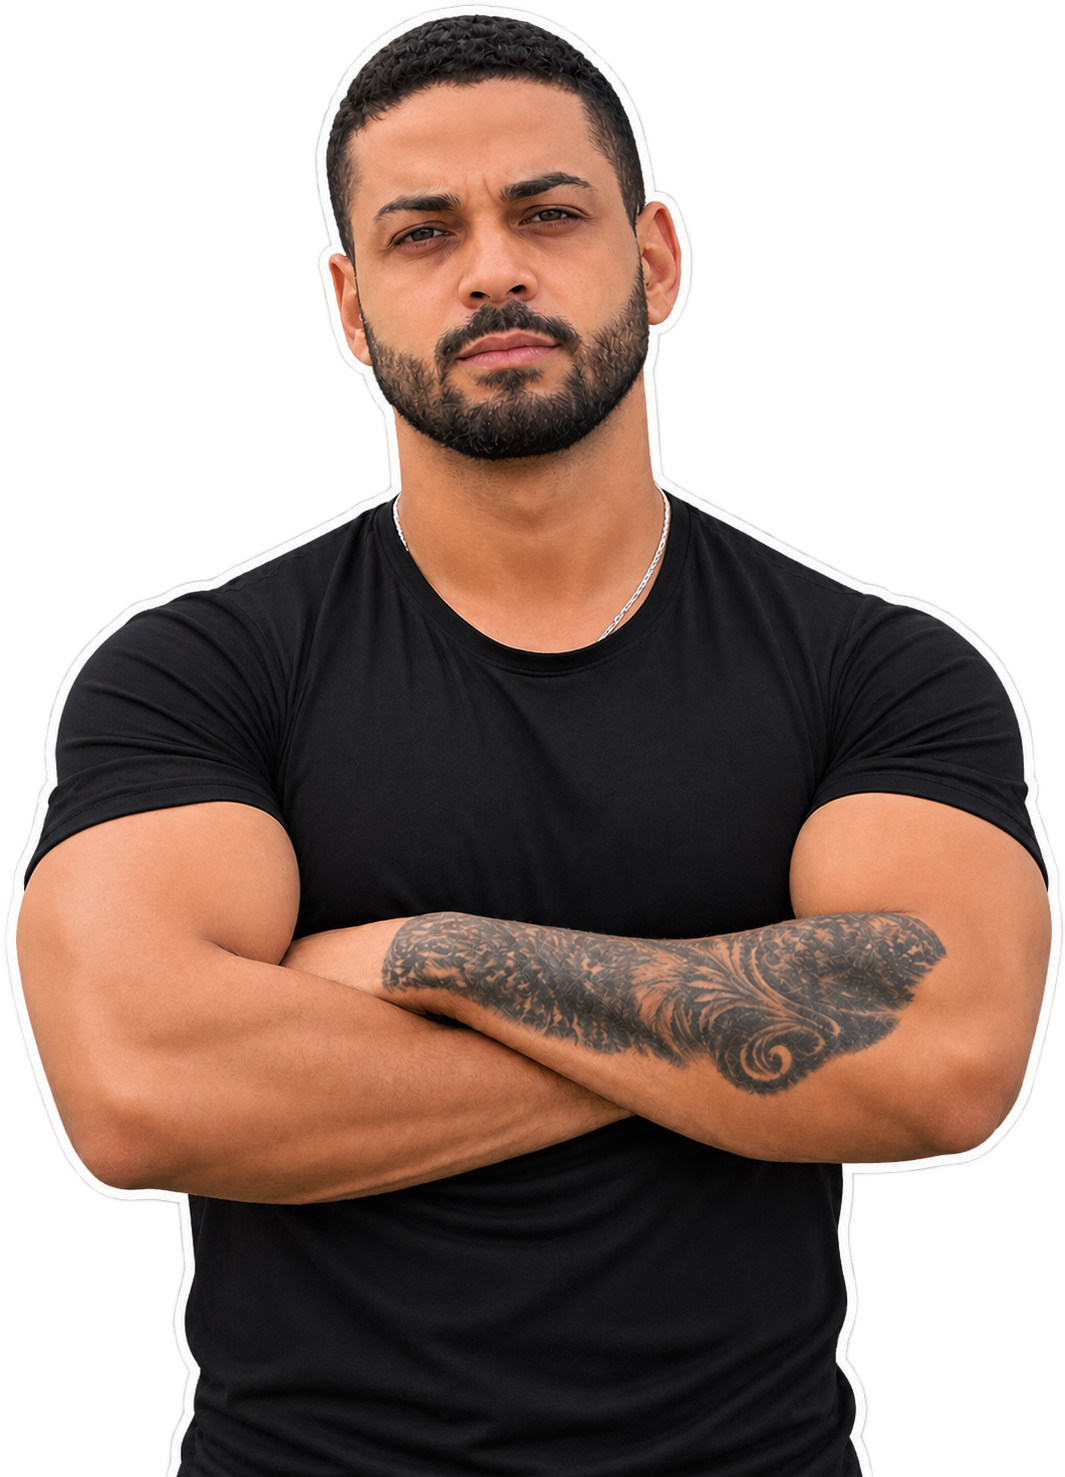
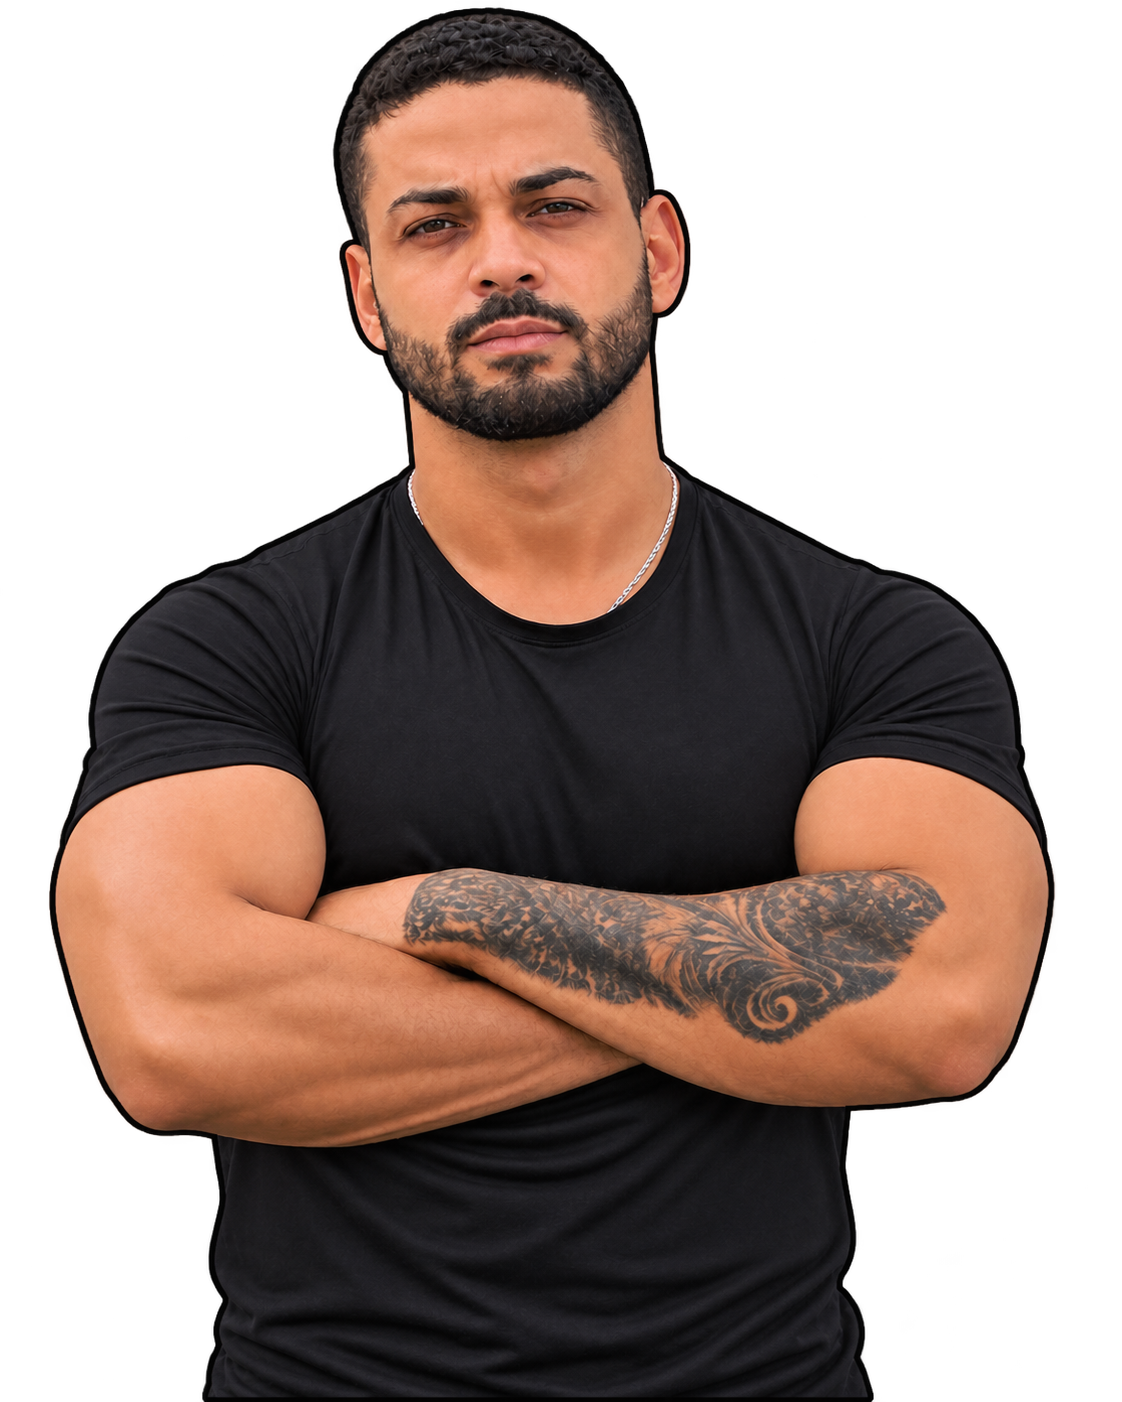
Atualiza fotos dos personais e reorganiza cards da equipe

diff --git a/index.html b/index.html
@@ -263,7 +263,7 @@
       <div class="space-lightbox-stage"><button type="button" class="space-lightbox-prev" aria-label="Ver foto anterior">‹</button><img class="space-lightbox-image" alt=""><button type="button" class="space-lightbox-next" aria-label="Ver próxima foto">›</button></div>
       <p class="space-lightbox-count" aria-live="polite"></p>
     </dialog>
-    <section class="section" id="equipe"><div class="wrap"><div class="trainers-intro reveal"><div><p class="eyebrow">Quem acompanha seu treino</p><h2 class="section-title">Conheça nossos personal trainers.</h2></div><p class="trainers-note">Nossa equipe conta com profissionais formados e preparados para orientar você e acompanhar seus treinos. Conheça os personais de cada unidade.</p></div><div class="trainer-unit"><div class="trainer-unit-heading reveal"><h3>Jesuânia</h3><span>Unidade Jesuânia · 3 profissionais</span></div><div class="trainer-grid"><article class="trainer-card reveal" data-spotlight-card><img class="trainer-photo trainer-photo-cutout" src="assets/leonora.png" alt="Leonora, personal trainer da Escultural Fitness"><div class="trainer-info"><h4>Leonora</h4><div class="social-icons" aria-label="Redes sociais"><a href="https://wa.me/553599144390" target="_blank" rel="noopener" aria-label="WhatsApp de Leonora"><svg viewBox="0 0 24 24" aria-hidden="true"><path d="M20.52 3.48A11.86 11.86 0 0 0 12.06 0C5.48 0 .13 5.35.13 11.93c0 2.1.55 4.15 1.6 5.96L0 24l6.27-1.65a11.9 11.9 0 0 0 5.78 1.47h.01C18.64 23.82 24 18.47 24 11.89c0-3.18-1.24-6.17-3.48-8.41ZM12.06 21.8h-.01a9.9 9.9 0 0 1-5.04-1.38l-.36-.21-3.72.98.99-3.63-.24-.37a9.85 9.85 0 0 1-1.52-5.26c0-5.48 4.46-9.93 9.94-9.93 2.65 0 5.14 1.03 7.01 2.91a9.86 9.86 0 0 1 2.9 7.02c0 5.48-4.46 9.93-9.95 9.93Z"/><path d="M17.5 14.36c-.3-.15-1.75-.86-2.02-.96-.27-.1-.47-.15-.67.15-.2.3-.76.96-.93 1.16-.17.2-.35.22-.65.07-.3-.15-1.27-.47-2.42-1.5-.89-.79-1.5-1.76-1.67-2.06-.17-.3-.02-.46.13-.61.14-.14.3-.35.45-.52.15-.17.2-.3.3-.5.1-.2.05-.38-.02-.53-.08-.15-.67-1.62-.92-2.22-.24-.58-.49-.5-.67-.51h-.57c-.2 0-.52.07-.79.37-.27.3-1.04 1.02-1.04 2.49s1.07 2.89 1.22 3.09c.15.2 2.1 3.2 5.08 4.48.71.31 1.26.5 1.69.64.71.23 1.36.2 1.87.12.57-.09 1.75-.72 2-1.42.25-.7.25-1.3.17-1.42Z"/></svg></a><a href="https://www.instagram.com/leonoraolirib/" target="_blank" rel="noopener" aria-label="Instagram de Leonora"><svg viewBox="0 0 24 24" aria-hidden="true"><path d="M7 2h10a5 5 0 0 1 5 5v10a5 5 0 0 1-5 5H7a5 5 0 0 1-5-5V7a5 5 0 0 1 5-5Zm5 5a5 5 0 1 0 0 10 5 5 0 0 0 0-10Zm6.5-1.5a1.5 1.5 0 1 0 0 3 1.5 1.5 0 0 0 0-3Z"/></svg></a></div><span class="trainer-role">Personal trainer · Jesuânia</span><p>Conheça em breve a trajetória e a especialidade deste profissional.</p></div></article><article class="trainer-card reveal" data-spotlight-card><img class="trainer-photo trainer-photo-cutout" src="assets/alex-junior.png" alt="Alex Junior, personal trainer da Escultural Fitness"><div class="trainer-info"><h4>Alex Junior</h4><div class="social-icons" aria-label="Redes sociais"><a class="social-whatsapp" href="https://wa.me/553599069441" target="_blank" rel="noopener" aria-label="WhatsApp de Alex Junior"><svg viewBox="0 0 24 24" aria-hidden="true"><path d="M20.52 3.48A11.86 11.86 0 0 0 12.06 0C5.48 0 .13 5.35.13 11.93c0 2.1.55 4.15 1.6 5.96L0 24l6.27-1.65a11.9 11.9 0 0 0 5.78 1.47h.01C18.64 23.82 24 18.47 24 11.89c0-3.18-1.24-6.17-3.48-8.41ZM12.06 21.8h-.01a9.9 9.9 0 0 1-5.04-1.38l-.36-.21-3.72.98.99-3.63-.24-.37a9.85 9.85 0 0 1-1.52-5.26c0-5.48 4.46-9.93 9.94-9.93 2.65 0 5.14 1.03 7.01 2.91a9.86 9.86 0 0 1 2.9 7.02c0 5.48-4.46 9.93-9.95 9.93Zm5.45-7.44c-.3-.15-1.75-.86-2.02-.96-.27-.1-.47-.15-.67.15-.2.3-.76.96-.93 1.16-.17.2-.35.22-.65.07-.3-.15-1.27-.47-2.42-1.5-.89-.79-1.5-1.76-1.67-2.06-.17-.3-.02-.46.13-.61.14-.14.3-.35.45-.52.15-.17.2-.3.3-.5.1-.2.05-.38-.02-.53-.08-.15-.67-1.62-.92-2.22-.24-.58-.49-.5-.67-.51h-.57c-.2 0-.52.07-.79.37-.27.3-1.04 1.02-1.04 2.49s1.07 2.89 1.22 3.09c.15.2 2.1 3.2 5.08 4.48.71.31 1.26.5 1.69.64.71.23 1.36.2 1.87.12.57-.09 1.75-.72 2-1.42.25-.7.25-1.3.17-1.42-.07-.13-.27-.2-.57-.35Z"/></svg></a><a href="https://www.instagram.com/alexjunior2845/" target="_blank" rel="noopener" aria-label="Instagram de Alex Junior"><svg viewBox="0 0 24 24" aria-hidden="true"><path d="M7 2h10a5 5 0 0 1 5 5v10a5 5 0 0 1-5 5H7a5 5 0 0 1-5-5V7a5 5 0 0 1 5-5Zm5 5a5 5 0 1 0 0 10 5 5 0 0 0 0-10Zm6.5-1.5a1.5 1.5 0 1 0 0 3 1.5 1.5 0 0 0 0-3Z"/></svg></a></div><span class="trainer-role">Personal trainer · Jesuânia</span><p>Conheça em breve a trajetória e a especialidade deste profissional.</p></div></article><article class="trainer-card reveal" data-spotlight-card><img class="trainer-photo trainer-photo-cutout" src="assets/josi-mar.png" alt="Josimar, personal trainer da Escultural Fitness"><div class="trainer-info"><h4>Josimar</h4><div class="social-icons" aria-label="Redes sociais"><a class="social-whatsapp" href="https://wa.me/5535998174166" target="_blank" rel="noopener" aria-label="WhatsApp de Josimar"><svg viewBox="0 0 24 24" aria-hidden="true"><path d="M20.52 3.48A11.86 11.86 0 0 0 12.06 0C5.48 0 .13 5.35.13 11.93c0 2.1.55 4.15 1.6 5.96L0 24l6.27-1.65a11.9 11.9 0 0 0 5.78 1.47h.01C18.64 23.82 24 18.47 24 11.89c0-3.18-1.24-6.17-3.48-8.41ZM12.06 21.8h-.01a9.9 9.9 0 0 1-5.04-1.38l-.36-.21-3.72.98.99-3.63-.24-.37a9.85 9.85 0 0 1-1.52-5.26c0-5.48 4.46-9.93 9.94-9.93 2.65 0 5.14 1.03 7.01 2.91a9.86 9.86 0 0 1 2.9 7.02c0 5.48-4.46 9.93-9.95 9.93Zm5.45-7.44c-.3-.15-1.75-.86-2.02-.96-.27-.1-.47-.15-.67.15-.2.3-.76.96-.93 1.16-.17.2-.35.22-.65.07-.3-.15-1.27-.47-2.42-1.5-.89-.79-1.5-1.76-1.67-2.06-.17-.3-.02-.46.13-.61.14-.14.3-.35.45-.52.15-.17.2-.3.3-.5.1-.2.05-.38-.02-.53-.08-.15-.67-1.62-.92-2.22-.24-.58-.49-.5-.67-.51h-.57c-.2 0-.52.07-.79.37-.27.3-1.04 1.02-1.04 2.49s1.07 2.89 1.22 3.09c.15.2 2.1 3.2 5.08 4.48.71.31 1.26.5 1.69.64.71.23 1.36.2 1.87.12.57-.09 1.75-.72 2-1.42.25-.7.25-1.3.17-1.42-.07-.13-.27-.2-.57-.35Z"/></svg></a><a href="https://www.instagram.com/josimar_academia/" target="_blank" rel="noopener" aria-label="Instagram de Josimar"><svg viewBox="0 0 24 24" aria-hidden="true"><path d="M7 2h10a5 5 0 0 1 5 5v10a5 5 0 0 1-5 5H7a5 5 0 0 1-5-5V7a5 5 0 0 1 5-5Zm5 5a5 5 0 1 0 0 10 5 5 0 0 0 0-10Zm6.5-1.5a1.5 1.5 0 1 0 0 3 1.5 1.5 0 0 0 0-3Z"/></svg></a></div><span class="trainer-role">Personal trainer · Jesuânia</span><p>Conheça em breve a trajetória e a especialidade deste profissional.</p></div></article></div></div><div class="trainer-unit"><div class="trainer-unit-heading reveal"><h3>Olímpio Noronha</h3><span>Unidade Olímpio Noronha · 3 profissionais</span></div><div class="trainer-grid"><article class="trainer-card reveal" data-spotlight-card><div class="trainer-photo photo-placeholder" role="img" aria-label="Espaço reservado para a foto de Hamilton">Adicionar foto</div><div class="trainer-info"><h4>Hamilton</h4><div class="social-icons" aria-label="Redes sociais"><a href="#" aria-label="WhatsApp — adicionar link"><svg viewBox="0 0 24 24" aria-hidden="true"><path d="M20.52 3.48A11.86 11.86 0 0 0 12.06 0C5.48 0 .13 5.35.13 11.93c0 2.1.55 4.15 1.6 5.96L0 24l6.27-1.65a11.9 11.9 0 0 0 5.78 1.47h.01C18.64 23.82 24 18.47 24 11.89c0-3.18-1.24-6.17-3.48-8.41ZM12.06 21.8h-.01a9.9 9.9 0 0 1-5.04-1.38l-.36-.21-3.72.98.99-3.63-.24-.37a9.85 9.85 0 0 1-1.52-5.26c0-5.48 4.46-9.93 9.94-9.93 2.65 0 5.14 1.03 7.01 2.91a9.86 9.86 0 0 1 2.9 7.02c0 5.48-4.46 9.93-9.95 9.93Z"/><path d="M17.5 14.36c-.3-.15-1.75-.86-2.02-.96-.27-.1-.47-.15-.67.15-.2.3-.76.96-.93 1.16-.17.2-.35.22-.65.07-.3-.15-1.27-.47-2.42-1.5-.89-.79-1.5-1.76-1.67-2.06-.17-.3-.02-.46.13-.61.14-.14.3-.35.45-.52.15-.17.2-.3.3-.5.1-.2.05-.38-.02-.53-.08-.15-.67-1.62-.92-2.22-.24-.58-.49-.5-.67-.51h-.57c-.2 0-.52.07-.79.37-.27.3-1.04 1.02-1.04 2.49s1.07 2.89 1.22 3.09c.15.2 2.1 3.2 5.08 4.48.71.31 1.26.5 1.69.64.71.23 1.36.2 1.87.12.57-.09 1.75-.72 2-1.42.25-.7.25-1.3.17-1.42Z"/></svg></a><a href="#" aria-label="Instagram — adicionar link"><svg viewBox="0 0 24 24" aria-hidden="true"><path d="M7 2h10a5 5 0 0 1 5 5v10a5 5 0 0 1-5 5H7a5 5 0 0 1-5-5V7a5 5 0 0 1 5-5Zm5 5a5 5 0 1 0 0 10 5 5 0 0 0 0-10Zm6.5-1.5a1.5 1.5 0 1 0 0 3 1.5 1.5 0 0 0 0-3Z"/></svg></a></div><span class="trainer-role">Personal trainer · Olímpio Noronha</span><p>Conheça em breve a trajetória e a especialidade deste profissional.</p></div></article><article class="trainer-card reveal" data-spotlight-card><div class="trainer-photo photo-placeholder" role="img" aria-label="Espaço reservado para a foto de Rebeca">Adicionar foto</div><div class="trainer-info"><h4>Rebeca</h4><div class="social-icons" aria-label="Redes sociais"><a href="https://wa.me/5535920018049" target="_blank" rel="noopener" aria-label="WhatsApp de Rebeca"><svg viewBox="0 0 24 24" aria-hidden="true"><path d="M20.52 3.48A11.86 11.86 0 0 0 12.06 0C5.48 0 .13 5.35.13 11.93c0 2.1.55 4.15 1.6 5.96L0 24l6.27-1.65a11.9 11.9 0 0 0 5.78 1.47h.01C18.64 23.82 24 18.47 24 11.89c0-3.18-1.24-6.17-3.48-8.41ZM12.06 21.8h-.01a9.9 9.9 0 0 1-5.04-1.38l-.36-.21-3.72.98.99-3.63-.24-.37a9.85 9.85 0 0 1-1.52-5.26c0-5.48 4.46-9.93 9.94-9.93 2.65 0 5.14 1.03 7.01 2.91a9.86 9.86 0 0 1 2.9 7.02c0 5.48-4.46 9.93-9.95 9.93Z"/><path d="M17.5 14.36c-.3-.15-1.75-.86-2.02-.96-.27-.1-.47-.15-.67.15-.2.3-.76.96-.93 1.16-.17.2-.35.22-.65.07-.3-.15-1.27-.47-2.42-1.5-.89-.79-1.5-1.76-1.67-2.06-.17-.3-.02-.46.13-.61.14-.14.3-.35.45-.52.15-.17.2-.3.3-.5.1-.2.05-.38-.02-.53-.08-.15-.67-1.62-.92-2.22-.24-.58-.49-.5-.67-.51h-.57c-.2 0-.52.07-.79.37-.27.3-1.04 1.02-1.04 2.49s1.07 2.89 1.22 3.09c.15.2 2.1 3.2 5.08 4.48.71.31 1.26.5 1.69.64.71.23 1.36.2 1.87.12.57-.09 1.75-.72 2-1.42.25-.7.25-1.3.17-1.42Z"/></svg></a><a href="https://www.instagram.com/rebecacarvalh0x/" target="_blank" rel="noopener" aria-label="Instagram de Rebeca"><svg viewBox="0 0 24 24" aria-hidden="true"><path d="M7 2h10a5 5 0 0 1 5 5v10a5 5 0 0 1-5 5H7a5 5 0 0 1-5-5V7a5 5 0 0 1 5-5Zm5 5a5 5 0 1 0 0 10 5 5 0 0 0 0-10Zm6.5-1.5a1.5 1.5 0 1 0 0 3 1.5 1.5 0 0 0 0-3Z"/></svg></a></div><span class="trainer-role">Personal trainer · Olímpio Noronha</span><p>Conheça em breve a trajetória e a especialidade deste profissional.</p></div></article><article class="trainer-card reveal" data-spotlight-card><div class="trainer-photo photo-placeholder" role="img" aria-label="Espaço reservado para a foto de Kaua">Adicionar foto</div><div class="trainer-info"><h4>Kaua</h4><div class="social-icons" aria-label="Redes sociais"><a href="#" aria-label="WhatsApp — adicionar link"><svg viewBox="0 0 24 24" aria-hidden="true"><path d="M20.52 3.48A11.86 11.86 0 0 0 12.06 0C5.48 0 .13 5.35.13 11.93c0 2.1.55 4.15 1.6 5.96L0 24l6.27-1.65a11.9 11.9 0 0 0 5.78 1.47h.01C18.64 23.82 24 18.47 24 11.89c0-3.18-1.24-6.17-3.48-8.41ZM12.06 21.8h-.01a9.9 9.9 0 0 1-5.04-1.38l-.36-.21-3.72.98.99-3.63-.24-.37a9.85 9.85 0 0 1-1.52-5.26c0-5.48 4.46-9.93 9.94-9.93 2.65 0 5.14 1.03 7.01 2.91a9.86 9.86 0 0 1 2.9 7.02c0 5.48-4.46 9.93-9.95 9.93Z"/><path d="M17.5 14.36c-.3-.15-1.75-.86-2.02-.96-.27-.1-.47-.15-.67.15-.2.3-.76.96-.93 1.16-.17.2-.35.22-.65.07-.3-.15-1.27-.47-2.42-1.5-.89-.79-1.5-1.76-1.67-2.06-.17-.3-.02-.46.13-.61.14-.14.3-.35.45-.52.15-.17.2-.3.3-.5.1-.2.05-.38-.02-.53-.08-.15-.67-1.62-.92-2.22-.24-.58-.49-.5-.67-.51h-.57c-.2 0-.52.07-.79.37-.27.3-1.04 1.02-1.04 2.49s1.07 2.89 1.22 3.09c.15.2 2.1 3.2 5.08 4.48.71.31 1.26.5 1.69.64.71.23 1.36.2 1.87.12.57-.09 1.75-.72 2-1.42.25-.7.25-1.3.17-1.42Z"/></svg></a><a href="#" aria-label="Instagram — adicionar link"><svg viewBox="0 0 24 24" aria-hidden="true"><path d="M7 2h10a5 5 0 0 1 5 5v10a5 5 0 0 1-5 5H7a5 5 0 0 1-5-5V7a5 5 0 0 1 5-5Zm5 5a5 5 0 1 0 0 10 5 5 0 0 0 0-10Zm6.5-1.5a1.5 1.5 0 1 0 0 3 1.5 1.5 0 0 0 0-3Z"/></svg></a></div><span class="trainer-role">Personal trainer · Olímpio Noronha</span><p>Conheça em breve a trajetória e a especialidade deste profissional.</p></div></article></div></div></div></section>
+    <section class="section" id="equipe"><div class="wrap"><div class="trainers-intro reveal"><div><p class="eyebrow">Quem acompanha seu treino</p><h2 class="section-title">Conheça nossos personal trainers.</h2></div><p class="trainers-note">Nossa equipe conta com profissionais formados e preparados para orientar você e acompanhar seus treinos. Conheça os personais de cada unidade.</p></div><div class="trainer-unit"><div class="trainer-unit-heading reveal"><h3>Jesuânia</h3><span>Unidade Jesuânia · 3 profissionais</span></div><div class="trainer-grid"><article class="trainer-card reveal" data-spotlight-card><img class="trainer-photo trainer-photo-cutout" src="assets/josi-mar.png" alt="Josimar, personal trainer da Escultural Fitness"><div class="trainer-info"><h4>Josimar</h4><div class="social-icons" aria-label="Redes sociais"><a class="social-whatsapp" href="https://wa.me/5535998174166" target="_blank" rel="noopener" aria-label="WhatsApp de Josimar"><svg viewBox="0 0 24 24" aria-hidden="true"><path d="M20.52 3.48A11.86 11.86 0 0 0 12.06 0C5.48 0 .13 5.35.13 11.93c0 2.1.55 4.15 1.6 5.96L0 24l6.27-1.65a11.9 11.9 0 0 0 5.78 1.47h.01C18.64 23.82 24 18.47 24 11.89c0-3.18-1.24-6.17-3.48-8.41ZM12.06 21.8h-.01a9.9 9.9 0 0 1-5.04-1.38l-.36-.21-3.72.98.99-3.63-.24-.37a9.85 9.85 0 0 1-1.52-5.26c0-5.48 4.46-9.93 9.94-9.93 2.65 0 5.14 1.03 7.01 2.91a9.86 9.86 0 0 1 2.9 7.02c0 5.48-4.46 9.93-9.95 9.93Zm5.45-7.44c-.3-.15-1.75-.86-2.02-.96-.27-.1-.47-.15-.67.15-.2.3-.76.96-.93 1.16-.17.2-.35.22-.65.07-.3-.15-1.27-.47-2.42-1.5-.89-.79-1.5-1.76-1.67-2.06-.17-.3-.02-.46.13-.61.14-.14.3-.35.45-.52.15-.17.2-.3.3-.5.1-.2.05-.38-.02-.53-.08-.15-.67-1.62-.92-2.22-.24-.58-.49-.5-.67-.51h-.57c-.2 0-.52.07-.79.37-.27.3-1.04 1.02-1.04 2.49s1.07 2.89 1.22 3.09c.15.2 2.1 3.2 5.08 4.48.71.31 1.26.5 1.69.64.71.23 1.36.2 1.87.12.57-.09 1.75-.72 2-1.42.25-.7.25-1.3.17-1.42-.07-.13-.27-.2-.57-.35Z"/></svg></a><a href="https://www.instagram.com/josimar_academia/" target="_blank" rel="noopener" aria-label="Instagram de Josimar"><svg viewBox="0 0 24 24" aria-hidden="true"><path d="M7 2h10a5 5 0 0 1 5 5v10a5 5 0 0 1-5 5H7a5 5 0 0 1-5-5V7a5 5 0 0 1 5-5Zm5 5a5 5 0 1 0 0 10 5 5 0 0 0 0-10Zm6.5-1.5a1.5 1.5 0 1 0 0 3 1.5 1.5 0 0 0 0-3Z"/></svg></a></div><span class="trainer-role">Personal trainer · Jesuânia</span><p>Conheça em breve a trajetória e a especialidade deste profissional.</p></div></article><article class="trainer-card reveal" data-spotlight-card><img class="trainer-photo trainer-photo-cutout" src="assets/leonora.png" alt="Leonora, personal trainer da Escultural Fitness"><div class="trainer-info"><h4>Leonora</h4><div class="social-icons" aria-label="Redes sociais"><a href="https://wa.me/553599144390" target="_blank" rel="noopener" aria-label="WhatsApp de Leonora"><svg viewBox="0 0 24 24" aria-hidden="true"><path d="M20.52 3.48A11.86 11.86 0 0 0 12.06 0C5.48 0 .13 5.35.13 11.93c0 2.1.55 4.15 1.6 5.96L0 24l6.27-1.65a11.9 11.9 0 0 0 5.78 1.47h.01C18.64 23.82 24 18.47 24 11.89c0-3.18-1.24-6.17-3.48-8.41ZM12.06 21.8h-.01a9.9 9.9 0 0 1-5.04-1.38l-.36-.21-3.72.98.99-3.63-.24-.37a9.85 9.85 0 0 1-1.52-5.26c0-5.48 4.46-9.93 9.94-9.93 2.65 0 5.14 1.03 7.01 2.91a9.86 9.86 0 0 1 2.9 7.02c0 5.48-4.46 9.93-9.95 9.93Z"/><path d="M17.5 14.36c-.3-.15-1.75-.86-2.02-.96-.27-.1-.47-.15-.67.15-.2.3-.76.96-.93 1.16-.17.2-.35.22-.65.07-.3-.15-1.27-.47-2.42-1.5-.89-.79-1.5-1.76-1.67-2.06-.17-.3-.02-.46.13-.61.14-.14.3-.35.45-.52.15-.17.2-.3.3-.5.1-.2.05-.38-.02-.53-.08-.15-.67-1.62-.92-2.22-.24-.58-.49-.5-.67-.51h-.57c-.2 0-.52.07-.79.37-.27.3-1.04 1.02-1.04 2.49s1.07 2.89 1.22 3.09c.15.2 2.1 3.2 5.08 4.48.71.31 1.26.5 1.69.64.71.23 1.36.2 1.87.12.57-.09 1.75-.72 2-1.42.25-.7.25-1.3.17-1.42Z"/></svg></a><a href="https://www.instagram.com/leonoraolirib/" target="_blank" rel="noopener" aria-label="Instagram de Leonora"><svg viewBox="0 0 24 24" aria-hidden="true"><path d="M7 2h10a5 5 0 0 1 5 5v10a5 5 0 0 1-5 5H7a5 5 0 0 1-5-5V7a5 5 0 0 1 5-5Zm5 5a5 5 0 1 0 0 10 5 5 0 0 0 0-10Zm6.5-1.5a1.5 1.5 0 1 0 0 3 1.5 1.5 0 0 0 0-3Z"/></svg></a></div><span class="trainer-role">Personal trainer · Jesuânia</span><p>Conheça em breve a trajetória e a especialidade deste profissional.</p></div></article><article class="trainer-card reveal" data-spotlight-card><img class="trainer-photo trainer-photo-cutout" src="assets/alex-junior.png" alt="Alex Junior, personal trainer da Escultural Fitness"><div class="trainer-info"><h4>Alex Junior</h4><div class="social-icons" aria-label="Redes sociais"><a class="social-whatsapp" href="https://wa.me/553599069441" target="_blank" rel="noopener" aria-label="WhatsApp de Alex Junior"><svg viewBox="0 0 24 24" aria-hidden="true"><path d="M20.52 3.48A11.86 11.86 0 0 0 12.06 0C5.48 0 .13 5.35.13 11.93c0 2.1.55 4.15 1.6 5.96L0 24l6.27-1.65a11.9 11.9 0 0 0 5.78 1.47h.01C18.64 23.82 24 18.47 24 11.89c0-3.18-1.24-6.17-3.48-8.41ZM12.06 21.8h-.01a9.9 9.9 0 0 1-5.04-1.38l-.36-.21-3.72.98.99-3.63-.24-.37a9.85 9.85 0 0 1-1.52-5.26c0-5.48 4.46-9.93 9.94-9.93 2.65 0 5.14 1.03 7.01 2.91a9.86 9.86 0 0 1 2.9 7.02c0 5.48-4.46 9.93-9.95 9.93Zm5.45-7.44c-.3-.15-1.75-.86-2.02-.96-.27-.1-.47-.15-.67.15-.2.3-.76.96-.93 1.16-.17.2-.35.22-.65.07-.3-.15-1.27-.47-2.42-1.5-.89-.79-1.5-1.76-1.67-2.06-.17-.3-.02-.46.13-.61.14-.14.3-.35.45-.52.15-.17.2-.3.3-.5.1-.2.05-.38-.02-.53-.08-.15-.67-1.62-.92-2.22-.24-.58-.49-.5-.67-.51h-.57c-.2 0-.52.07-.79.37-.27.3-1.04 1.02-1.04 2.49s1.07 2.89 1.22 3.09c.15.2 2.1 3.2 5.08 4.48.71.31 1.26.5 1.69.64.71.23 1.36.2 1.87.12.57-.09 1.75-.72 2-1.42.25-.7.25-1.3.17-1.42-.07-.13-.27-.2-.57-.35Z"/></svg></a><a href="https://www.instagram.com/alexjunior2845/" target="_blank" rel="noopener" aria-label="Instagram de Alex Junior"><svg viewBox="0 0 24 24" aria-hidden="true"><path d="M7 2h10a5 5 0 0 1 5 5v10a5 5 0 0 1-5 5H7a5 5 0 0 1-5-5V7a5 5 0 0 1 5-5Zm5 5a5 5 0 1 0 0 10 5 5 0 0 0 0-10Zm6.5-1.5a1.5 1.5 0 1 0 0 3 1.5 1.5 0 0 0 0-3Z"/></svg></a></div><span class="trainer-role">Personal trainer · Jesuânia</span><p>Conheça em breve a trajetória e a especialidade deste profissional.</p></div></article></div></div><div class="trainer-unit"><div class="trainer-unit-heading reveal"><h3>Olímpio Noronha</h3><span>Unidade Olímpio Noronha · 3 profissionais</span></div><div class="trainer-grid"><article class="trainer-card reveal" data-spotlight-card><div class="trainer-photo photo-placeholder" role="img" aria-label="Espaço reservado para a foto de Hamilton">Adicionar foto</div><div class="trainer-info"><h4>Hamilton</h4><div class="social-icons" aria-label="Redes sociais"><a href="#" aria-label="WhatsApp — adicionar link"><svg viewBox="0 0 24 24" aria-hidden="true"><path d="M20.52 3.48A11.86 11.86 0 0 0 12.06 0C5.48 0 .13 5.35.13 11.93c0 2.1.55 4.15 1.6 5.96L0 24l6.27-1.65a11.9 11.9 0 0 0 5.78 1.47h.01C18.64 23.82 24 18.47 24 11.89c0-3.18-1.24-6.17-3.48-8.41ZM12.06 21.8h-.01a9.9 9.9 0 0 1-5.04-1.38l-.36-.21-3.72.98.99-3.63-.24-.37a9.85 9.85 0 0 1-1.52-5.26c0-5.48 4.46-9.93 9.94-9.93 2.65 0 5.14 1.03 7.01 2.91a9.86 9.86 0 0 1 2.9 7.02c0 5.48-4.46 9.93-9.95 9.93Z"/><path d="M17.5 14.36c-.3-.15-1.75-.86-2.02-.96-.27-.1-.47-.15-.67.15-.2.3-.76.96-.93 1.16-.17.2-.35.22-.65.07-.3-.15-1.27-.47-2.42-1.5-.89-.79-1.5-1.76-1.67-2.06-.17-.3-.02-.46.13-.61.14-.14.3-.35.45-.52.15-.17.2-.3.3-.5.1-.2.05-.38-.02-.53-.08-.15-.67-1.62-.92-2.22-.24-.58-.49-.5-.67-.51h-.57c-.2 0-.52.07-.79.37-.27.3-1.04 1.02-1.04 2.49s1.07 2.89 1.22 3.09c.15.2 2.1 3.2 5.08 4.48.71.31 1.26.5 1.69.64.71.23 1.36.2 1.87.12.57-.09 1.75-.72 2-1.42.25-.7.25-1.3.17-1.42Z"/></svg></a><a href="#" aria-label="Instagram — adicionar link"><svg viewBox="0 0 24 24" aria-hidden="true"><path d="M7 2h10a5 5 0 0 1 5 5v10a5 5 0 0 1-5 5H7a5 5 0 0 1-5-5V7a5 5 0 0 1 5-5Zm5 5a5 5 0 1 0 0 10 5 5 0 0 0 0-10Zm6.5-1.5a1.5 1.5 0 1 0 0 3 1.5 1.5 0 0 0 0-3Z"/></svg></a></div><span class="trainer-role">Personal trainer · Olímpio Noronha</span><p>Conheça em breve a trajetória e a especialidade deste profissional.</p></div></article><article class="trainer-card reveal" data-spotlight-card><div class="trainer-photo photo-placeholder" role="img" aria-label="Espaço reservado para a foto de Rebeca">Adicionar foto</div><div class="trainer-info"><h4>Rebeca</h4><div class="social-icons" aria-label="Redes sociais"><a href="https://wa.me/5535920018049" target="_blank" rel="noopener" aria-label="WhatsApp de Rebeca"><svg viewBox="0 0 24 24" aria-hidden="true"><path d="M20.52 3.48A11.86 11.86 0 0 0 12.06 0C5.48 0 .13 5.35.13 11.93c0 2.1.55 4.15 1.6 5.96L0 24l6.27-1.65a11.9 11.9 0 0 0 5.78 1.47h.01C18.64 23.82 24 18.47 24 11.89c0-3.18-1.24-6.17-3.48-8.41ZM12.06 21.8h-.01a9.9 9.9 0 0 1-5.04-1.38l-.36-.21-3.72.98.99-3.63-.24-.37a9.85 9.85 0 0 1-1.52-5.26c0-5.48 4.46-9.93 9.94-9.93 2.65 0 5.14 1.03 7.01 2.91a9.86 9.86 0 0 1 2.9 7.02c0 5.48-4.46 9.93-9.95 9.93Z"/><path d="M17.5 14.36c-.3-.15-1.75-.86-2.02-.96-.27-.1-.47-.15-.67.15-.2.3-.76.96-.93 1.16-.17.2-.35.22-.65.07-.3-.15-1.27-.47-2.42-1.5-.89-.79-1.5-1.76-1.67-2.06-.17-.3-.02-.46.13-.61.14-.14.3-.35.45-.52.15-.17.2-.3.3-.5.1-.2.05-.38-.02-.53-.08-.15-.67-1.62-.92-2.22-.24-.58-.49-.5-.67-.51h-.57c-.2 0-.52.07-.79.37-.27.3-1.04 1.02-1.04 2.49s1.07 2.89 1.22 3.09c.15.2 2.1 3.2 5.08 4.48.71.31 1.26.5 1.69.64.71.23 1.36.2 1.87.12.57-.09 1.75-.72 2-1.42.25-.7.25-1.3.17-1.42Z"/></svg></a><a href="https://www.instagram.com/rebecacarvalh0x/" target="_blank" rel="noopener" aria-label="Instagram de Rebeca"><svg viewBox="0 0 24 24" aria-hidden="true"><path d="M7 2h10a5 5 0 0 1 5 5v10a5 5 0 0 1-5 5H7a5 5 0 0 1-5-5V7a5 5 0 0 1 5-5Zm5 5a5 5 0 1 0 0 10 5 5 0 0 0 0-10Zm6.5-1.5a1.5 1.5 0 1 0 0 3 1.5 1.5 0 0 0 0-3Z"/></svg></a></div><span class="trainer-role">Personal trainer · Olímpio Noronha</span><p>Conheça em breve a trajetória e a especialidade deste profissional.</p></div></article><article class="trainer-card reveal" data-spotlight-card><div class="trainer-photo photo-placeholder" role="img" aria-label="Espaço reservado para a foto de Kaua">Adicionar foto</div><div class="trainer-info"><h4>Kaua</h4><div class="social-icons" aria-label="Redes sociais"><a href="#" aria-label="WhatsApp — adicionar link"><svg viewBox="0 0 24 24" aria-hidden="true"><path d="M20.52 3.48A11.86 11.86 0 0 0 12.06 0C5.48 0 .13 5.35.13 11.93c0 2.1.55 4.15 1.6 5.96L0 24l6.27-1.65a11.9 11.9 0 0 0 5.78 1.47h.01C18.64 23.82 24 18.47 24 11.89c0-3.18-1.24-6.17-3.48-8.41ZM12.06 21.8h-.01a9.9 9.9 0 0 1-5.04-1.38l-.36-.21-3.72.98.99-3.63-.24-.37a9.85 9.85 0 0 1-1.52-5.26c0-5.48 4.46-9.93 9.94-9.93 2.65 0 5.14 1.03 7.01 2.91a9.86 9.86 0 0 1 2.9 7.02c0 5.48-4.46 9.93-9.95 9.93Z"/><path d="M17.5 14.36c-.3-.15-1.75-.86-2.02-.96-.27-.1-.47-.15-.67.15-.2.3-.76.96-.93 1.16-.17.2-.35.22-.65.07-.3-.15-1.27-.47-2.42-1.5-.89-.79-1.5-1.76-1.67-2.06-.17-.3-.02-.46.13-.61.14-.14.3-.35.45-.52.15-.17.2-.3.3-.5.1-.2.05-.38-.02-.53-.08-.15-.67-1.62-.92-2.22-.24-.58-.49-.5-.67-.51h-.57c-.2 0-.52.07-.79.37-.27.3-1.04 1.02-1.04 2.49s1.07 2.89 1.22 3.09c.15.2 2.1 3.2 5.08 4.48.71.31 1.26.5 1.69.64.71.23 1.36.2 1.87.12.57-.09 1.75-.72 2-1.42.25-.7.25-1.3.17-1.42Z"/></svg></a><a href="#" aria-label="Instagram — adicionar link"><svg viewBox="0 0 24 24" aria-hidden="true"><path d="M7 2h10a5 5 0 0 1 5 5v10a5 5 0 0 1-5 5H7a5 5 0 0 1-5-5V7a5 5 0 0 1 5-5Zm5 5a5 5 0 1 0 0 10 5 5 0 0 0 0-10Zm6.5-1.5a1.5 1.5 0 1 0 0 3 1.5 1.5 0 0 0 0-3Z"/></svg></a></div><span class="trainer-role">Personal trainer · Olímpio Noronha</span><p>Conheça em breve a trajetória e a especialidade deste profissional.</p></div></article></div></div></div></section>
     <section class="section" id="planos">
       <div class="wrap">
         <div class="reveal">
